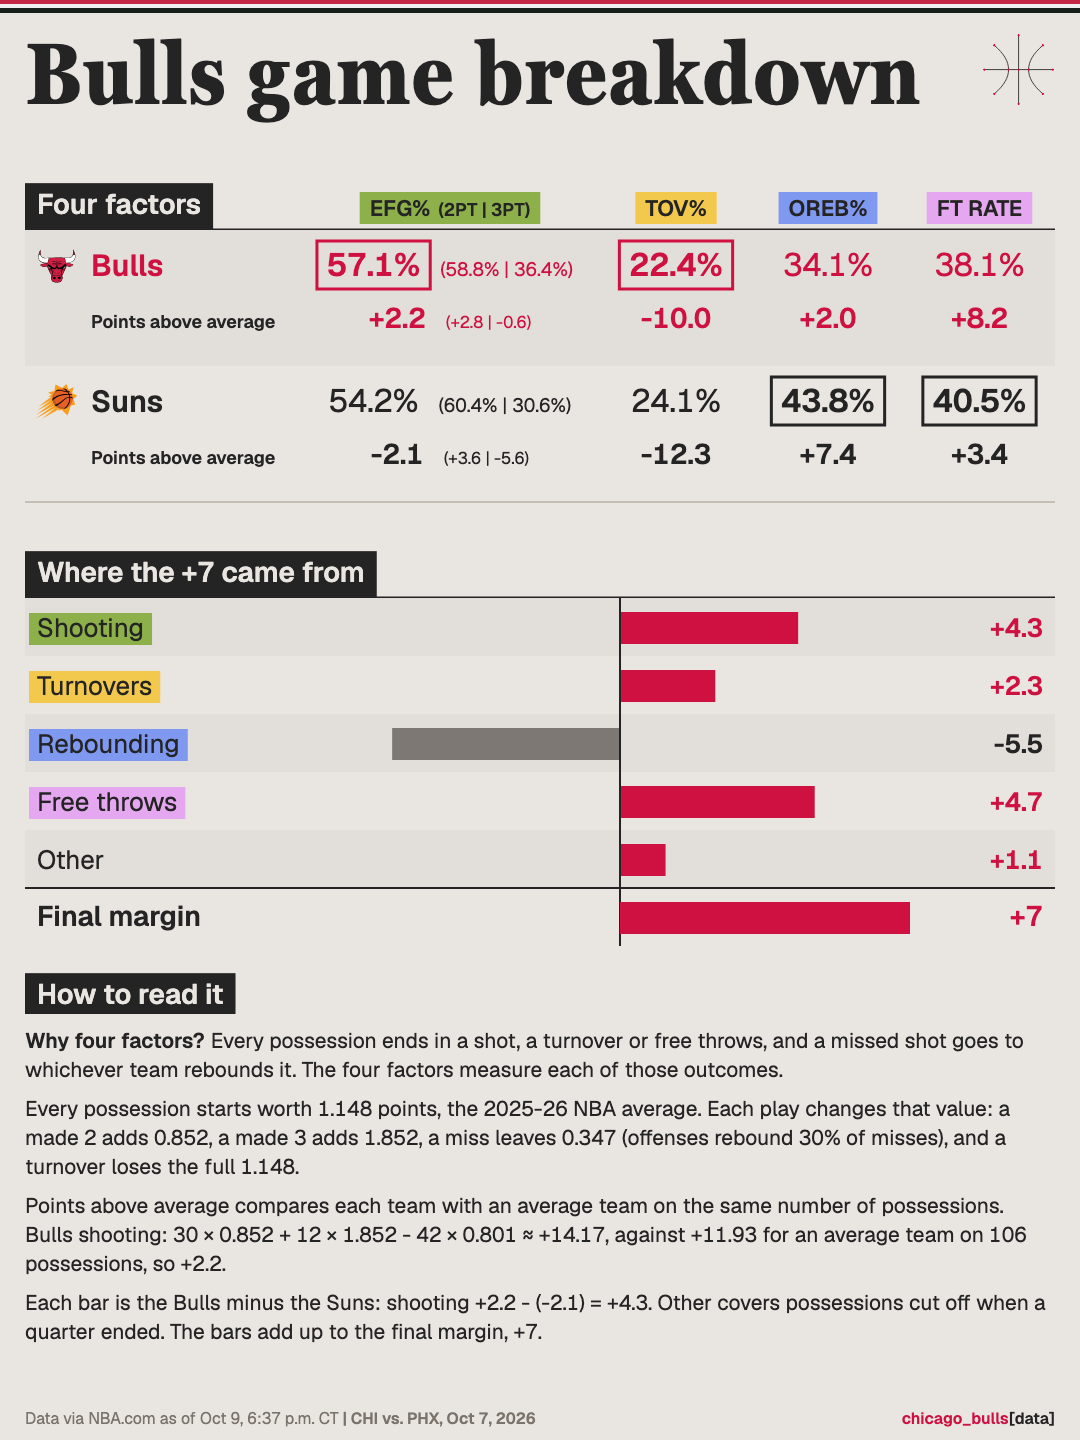
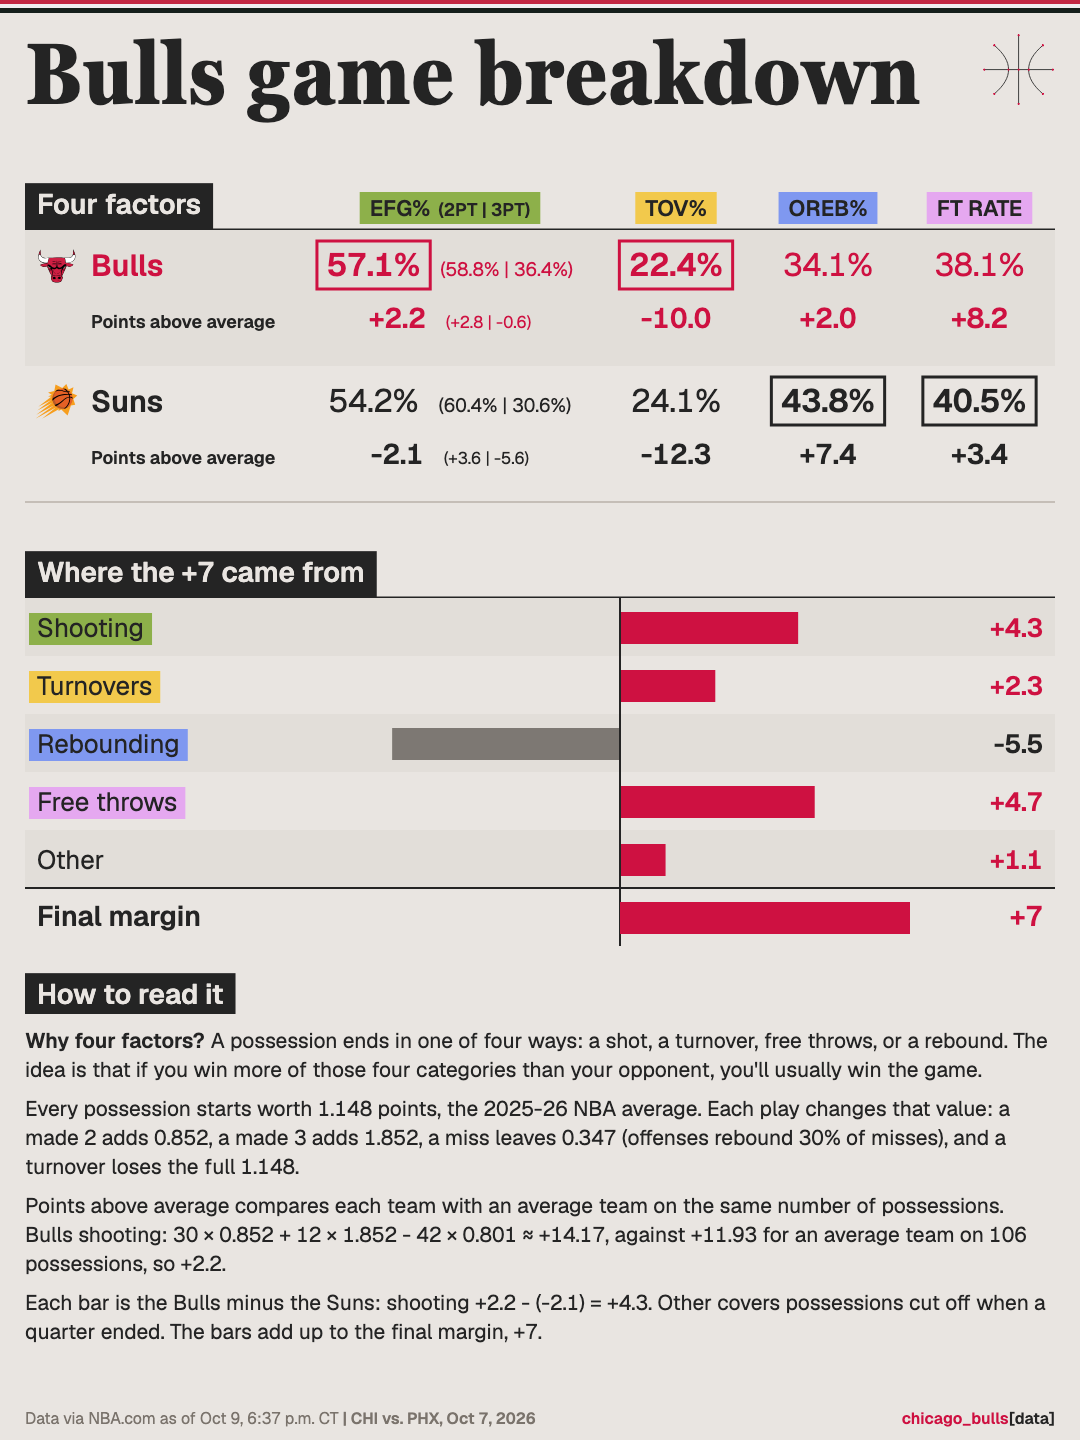
docs: reword the four factors opener on the game breakdown
A possession ends in one of four ways: a shot, a turnover, free throws, or a
rebound; win more of those four than the opponent and you usually win (the
user's wording).

Changed region(s): [[0.0306, 0.7188, 0.9778, 0.75]]

diff --git a/postgame-recaps/pipeline/recap_template.html b/postgame-recaps/pipeline/recap_template.html
@@ -293,7 +293,7 @@ const paras=[`Every possession starts worth ${f3(E.v)} points, the 2025-26 NBA a
 `Each bar is the ${D.chi.team} minus the ${D.opp.team}: shooting ${f1(ca)} - (${f1(oa)}) ${eq} ${f1(sb)}.`+(other?' Other covers possessions cut off when a quarter ended.':'')+(extra?` The ${D.chi.team} had ${pc_} possessions to ${po_}, and each possession is worth ${f3(E.v)}.`:'')+` The bars add up to the final margin, ${sgn(BD.margin)}.`];
 let ey=by+rh+58;s+=sec(L,ey,'How to read it');ey+=44;
 // Opens with why these four: they are every way a possession can end. The question is set in SemiBold.
-const why='Why four factors?';paras.unshift(`${why} Every possession ends in a shot, a turnover or free throws, and a missed shot goes to whichever team rebounds it. The four factors measure each of those outcomes.`);
+const why='Why four factors?';paras.unshift(`${why} A possession ends in one of four ways: a shot, a turnover, free throws, or a rebound. The idea is that if you win more of those four categories than your opponent, you'll usually win the game.`);
 // 21px unless the last line would reach the footer (a game with both Other and an extra possession runs longest): then a pixel smaller at a time.
 let fs=21,lines;for(;fs>18;fs--){lines=paras.map(pp=>wrapText(pp,fs,W-8));if(ey+(lines.flat().length-1)*fs*1.38+(lines.length-1)*fs*0.48<=1386)break;}lines=paras.map(pp=>wrapText(pp,fs,W-8));
 lines.forEach(ls=>{ls.forEach(line=>{s+=line.startsWith(why)?t(L,ey,fs,why,{w:600})+t(L+tw(why,fs,600)+fs*0.29,ey,fs,line.slice(why.length+1)):t(L,ey,fs,line);ey+=fs*1.38;});ey+=fs*0.48;});
